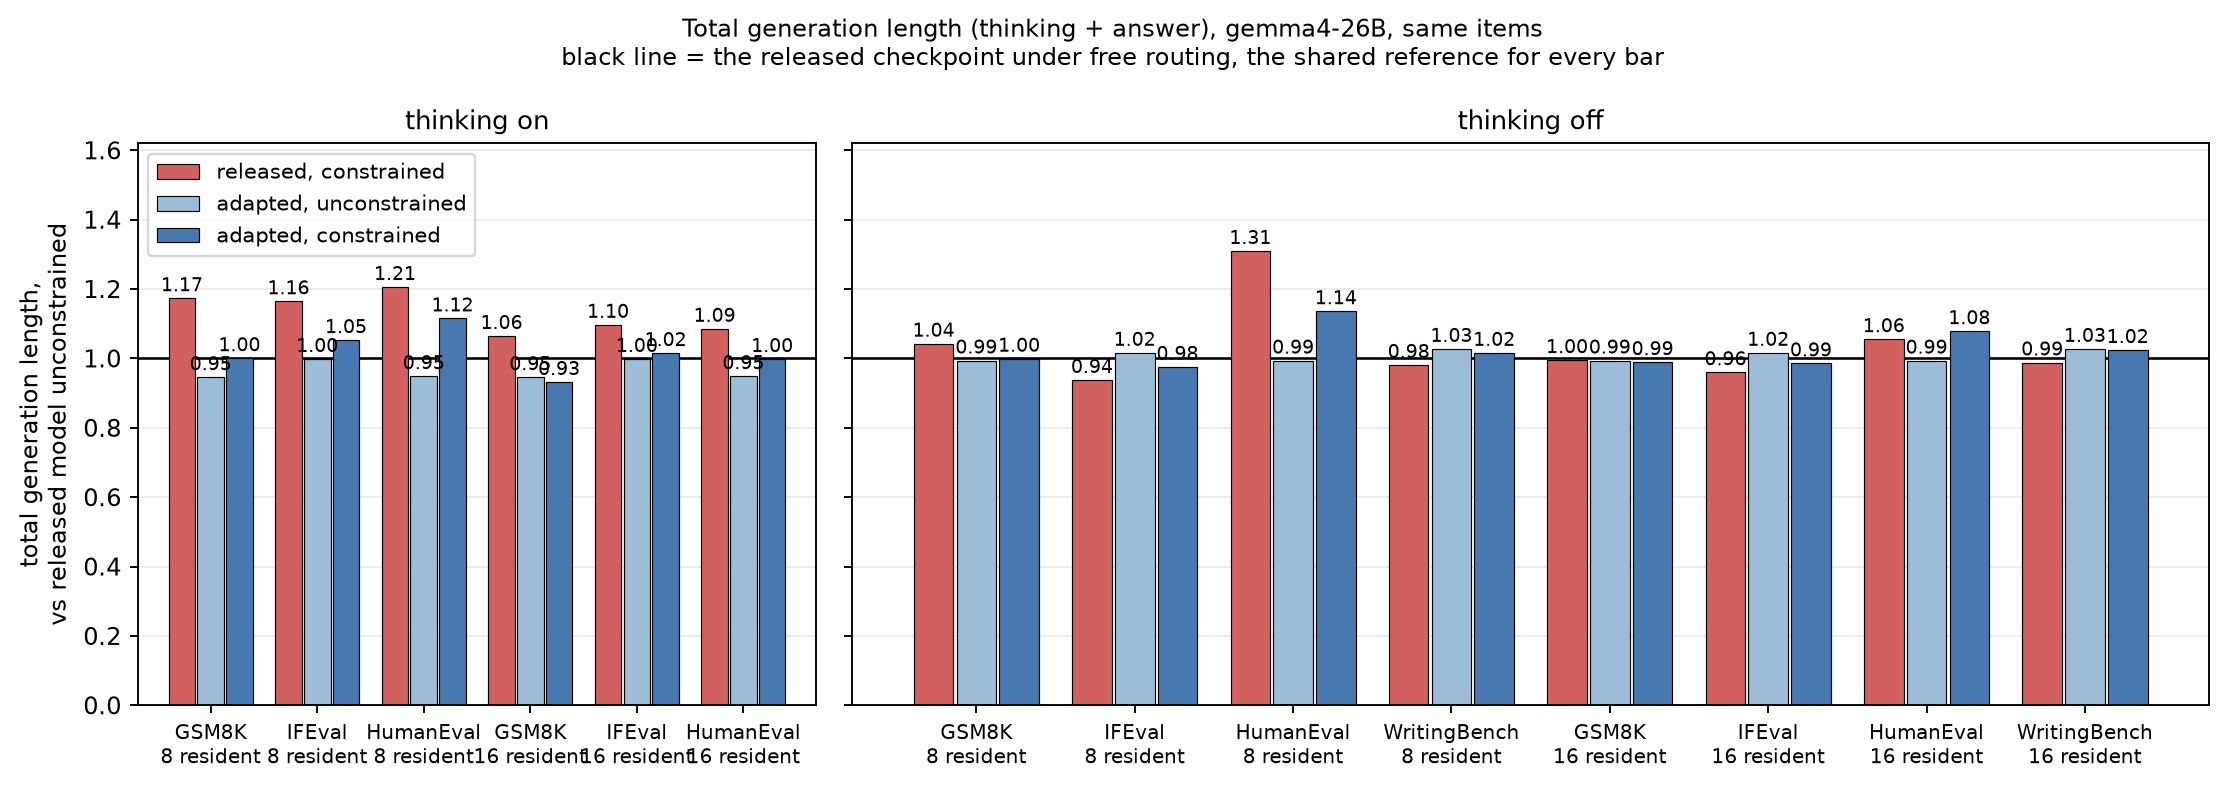
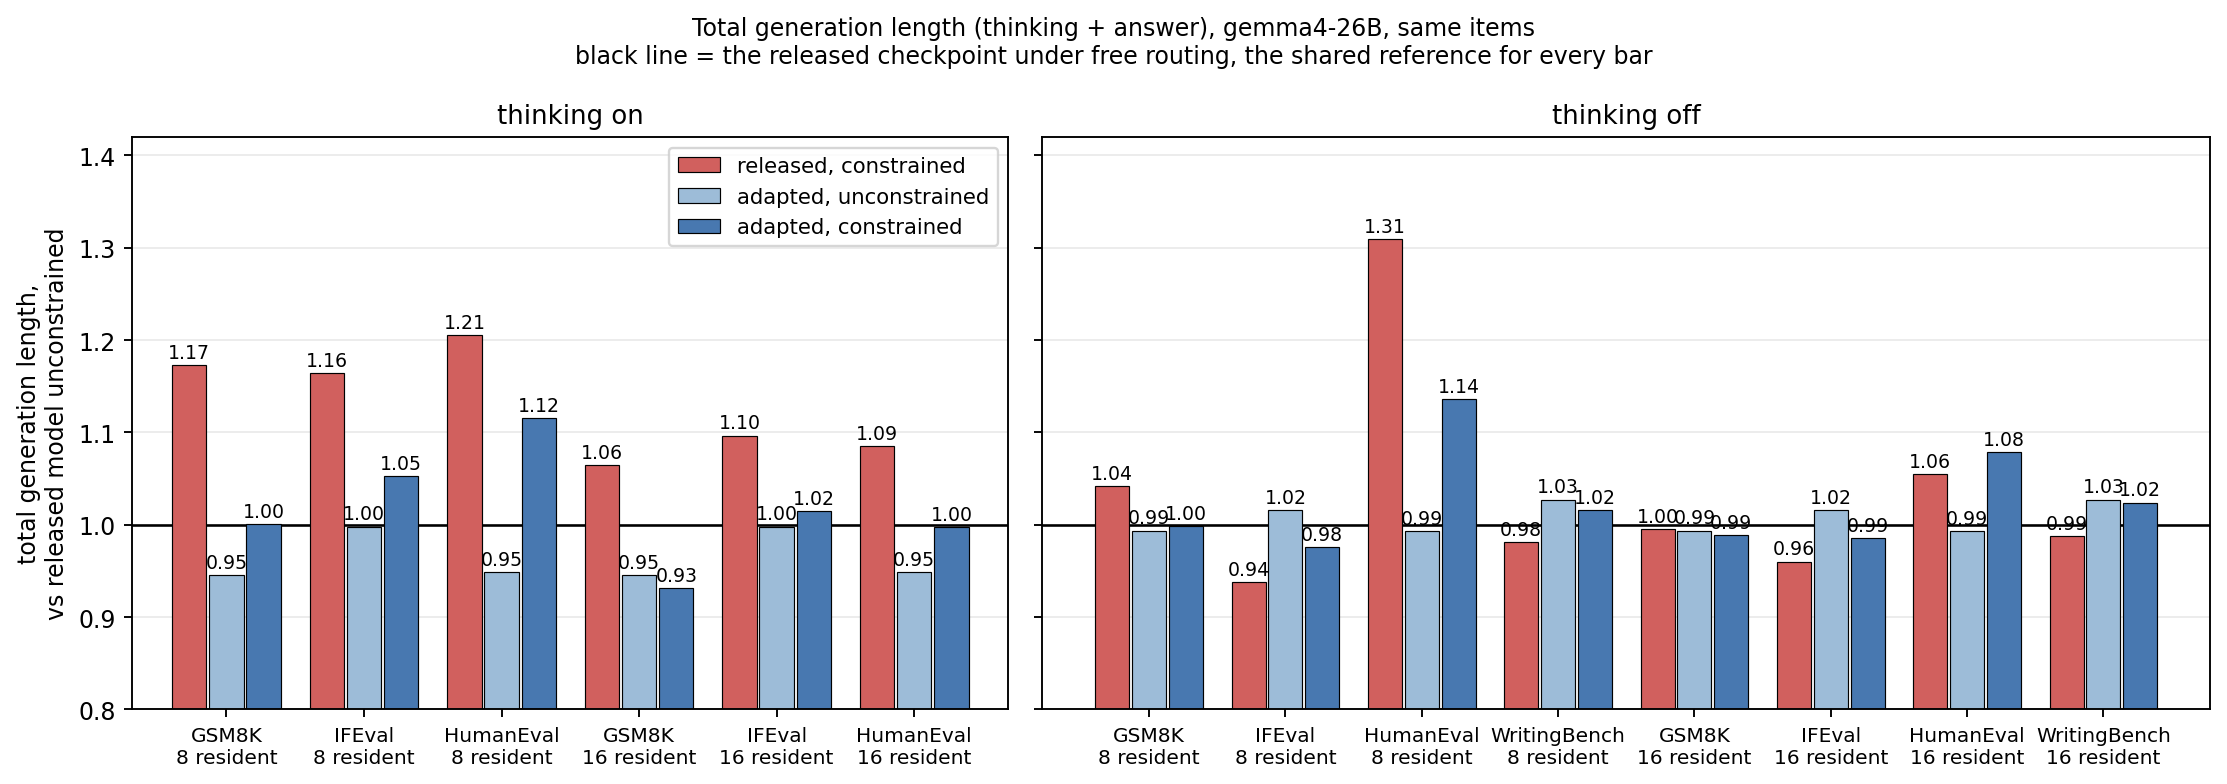
adapt_length figure: tight y-range, panel widths by column count; paper bumped to the rebuilt length claim

diff --git a/analysis/residency/length_figs.py b/analysis/residency/length_figs.py
@@ -434,8 +434,8 @@ def _wb_ratio(arm):
 
 
 def adapt_length():
-    fig, axes = plt.subplots(1, 2, figsize=(12.8, 4.0) if PAPER else (13.2, 4.7),
-                             sharey=True, gridspec_kw={"width_ratios": [1, 2]})
+    fig, axes = plt.subplots(1, 2, figsize=(12.8, 3.3) if PAPER else (13.2, 4.7),
+                             sharey=True, gridspec_kw={"width_ratios": [3, 4]})
     for ax, (title, brec, arec, surfs) in zip(axes, PANELS):
         cols = [(s, a) for a, _ in ARMS for s in surfs]
         vals = {i: [] for i in range(3)}
@@ -470,8 +470,10 @@ def adapt_length():
         ax.grid(alpha=0.25, axis="y")
         ax.set_axisbelow(True)
     axes[0].set_ylabel("total generation length,\nvs released model unconstrained")
-    axes[0].legend(fontsize=9, loc="upper left")
-    axes[0].set_ylim(0, 1.62)
+    axes[0].legend(fontsize=9, loc="upper right")
+    # every ratio sits in 0.93-1.31; a zero floor would spend most of the panel
+    # on empty axis, and the printed values keep truncated bars honest
+    axes[0].set_ylim(0.8, 1.42)
     if not PAPER:
         fig.suptitle("Total generation length (thinking + answer), gemma4-26B, same "
                      "items\nblack line = the released checkpoint under free routing, "
